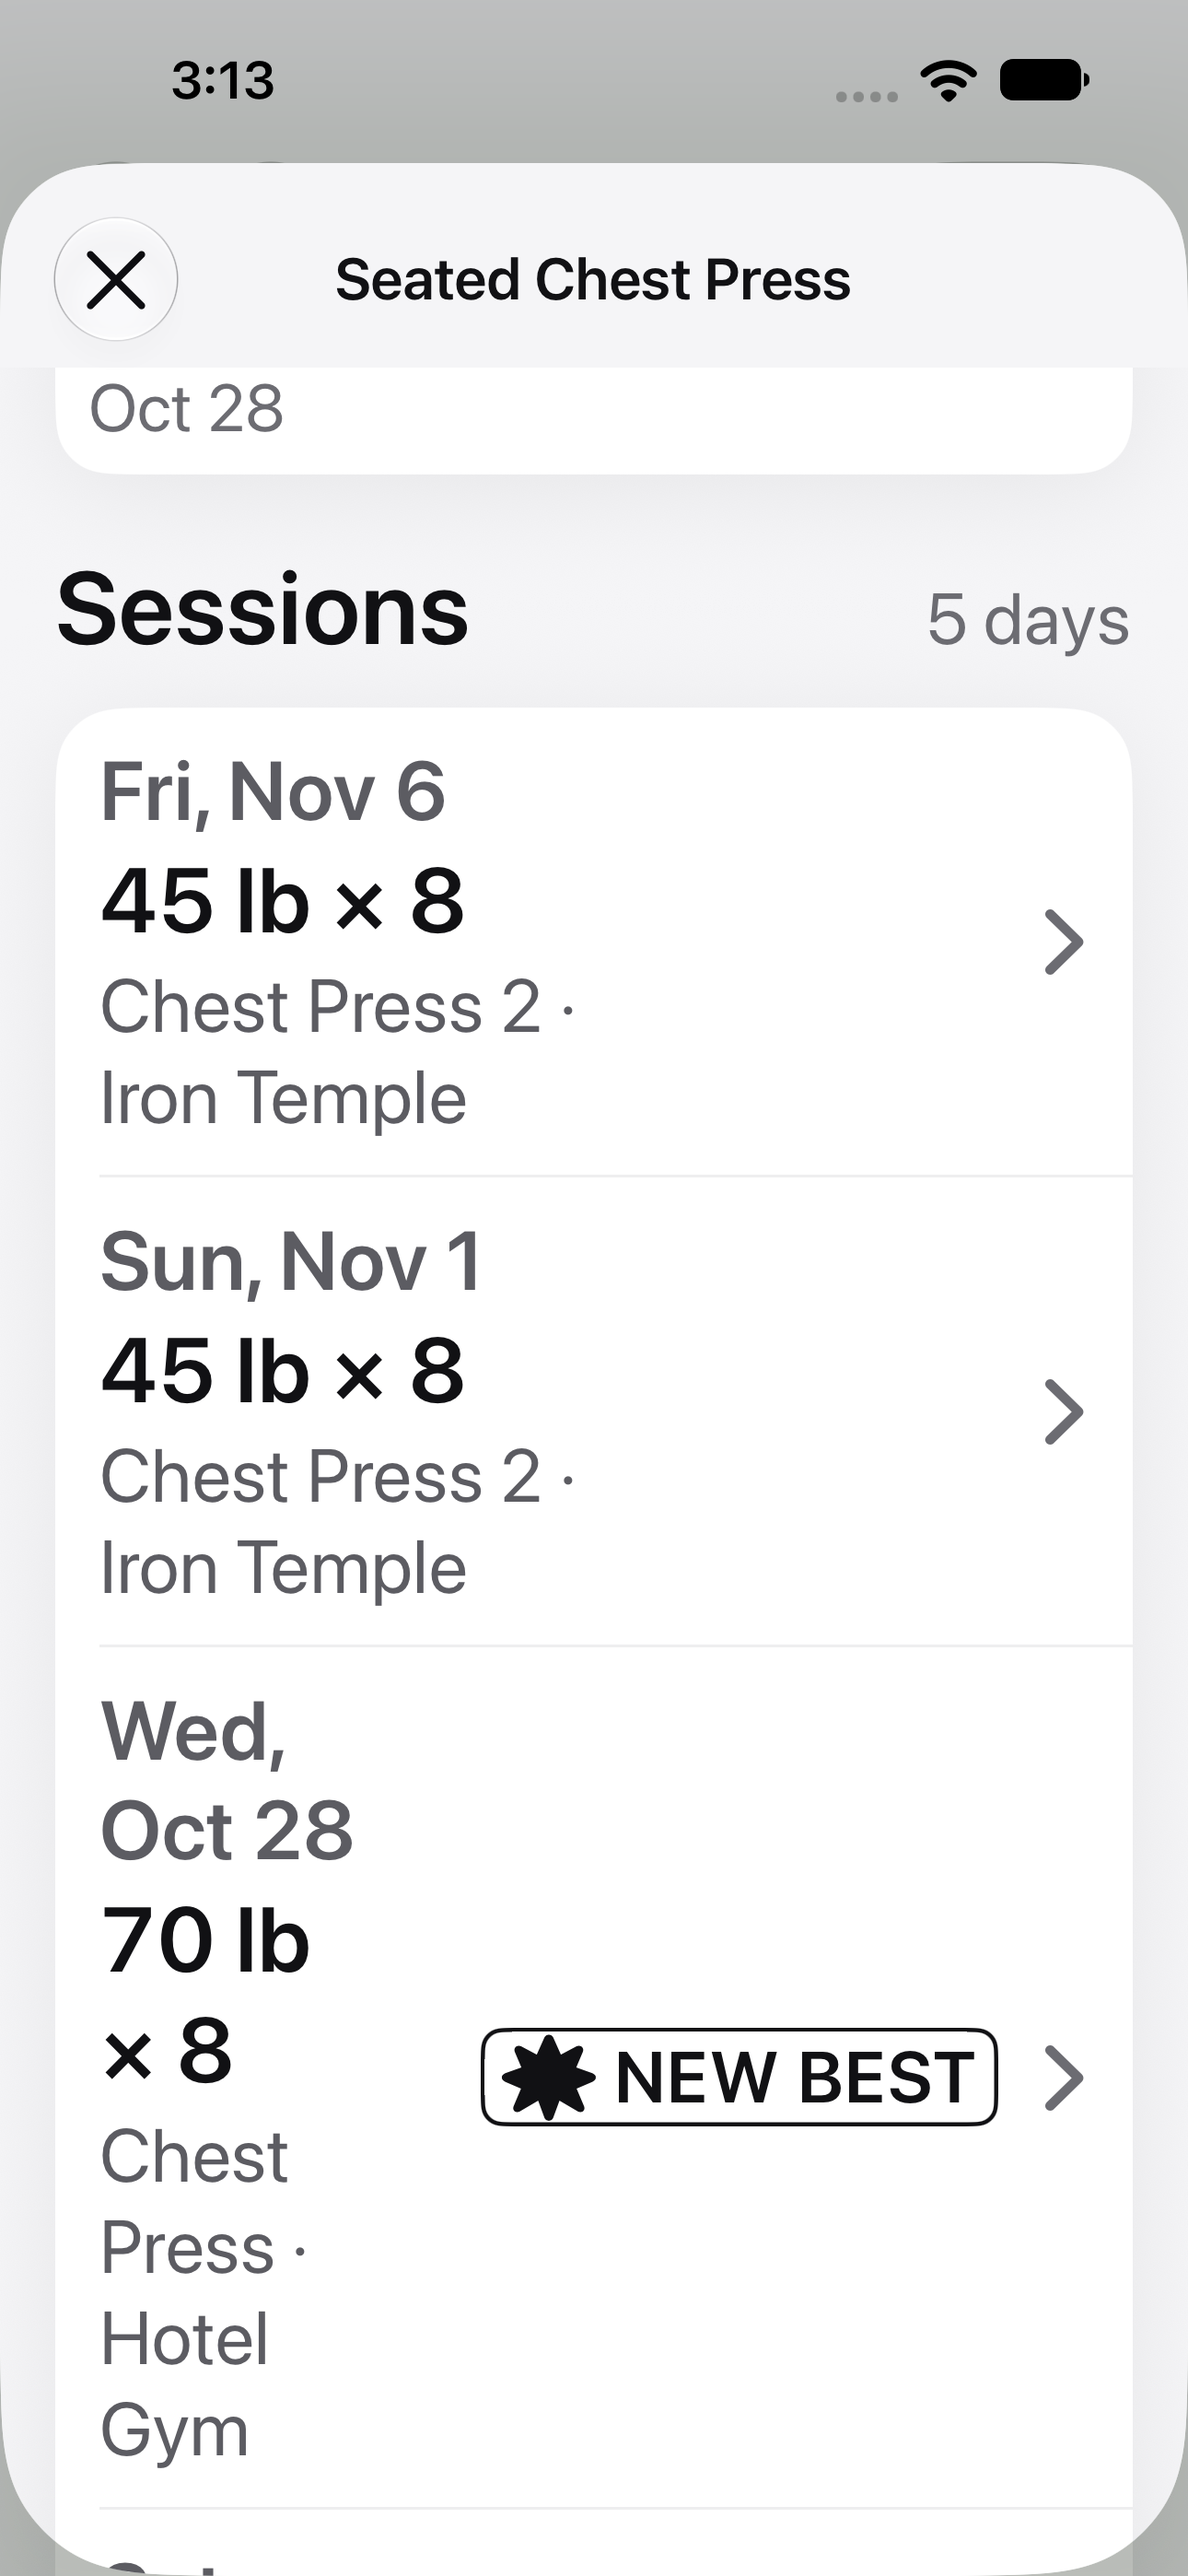
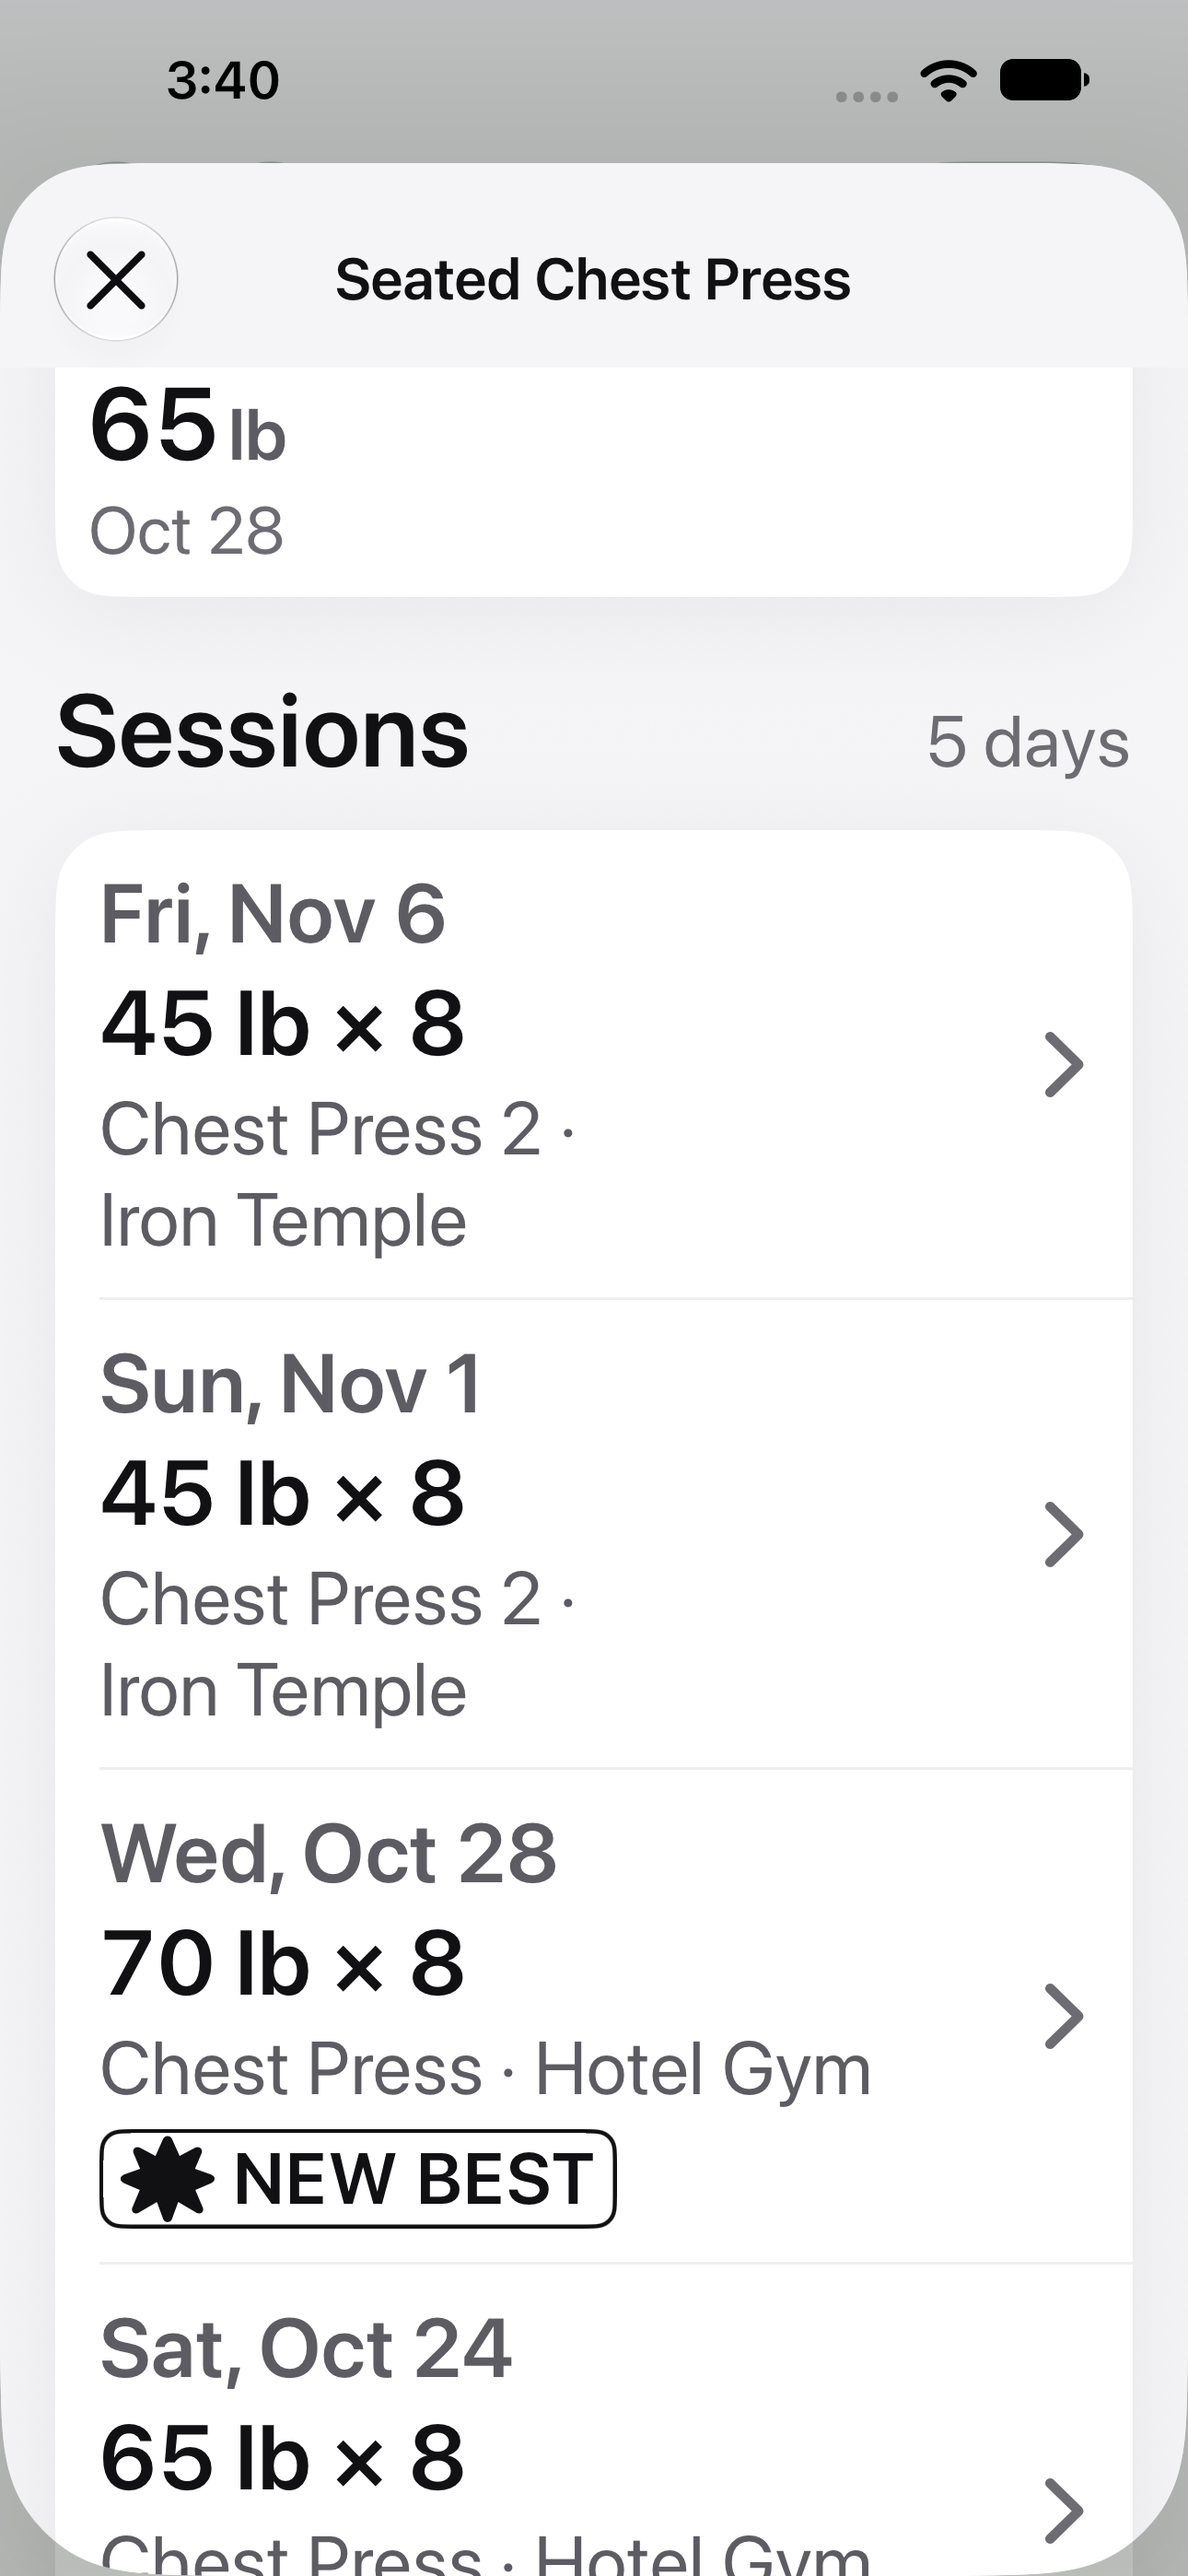
Live-workout 03: area plans evidence, retaken captures, Codex round 2 brief

diff --git a/work-record/live-workout-fixes/issues/03-chart-from-workout.md b/work-record/live-workout-fixes/issues/03-chart-from-workout.md
@@ -163,7 +163,19 @@ Report: [`codex-review-03.md`](../codex-review-03.md) (not clear: three P2). All
    `ExerciseOverview.variationWords(for:entries:current:)`; snapshots still win wherever history exists (D23).
    Regressions: `aDraftOnANewMachineAndPresetIsNamedFromItsLiveRows`, `historyWinsOverLiveRowsForANamedMachine`.
 
-Round-1 fixes: Unit plan 1358/1358 passed, exit 0 (`build/results/unit-03c.xcresult`). Workout + HistoryProgress
-area plans running (2 workers; `build/results/area-workout.xcresult`, `area-history.xcresult`, log
-`build/results/area-03.log`) — they include the live chart test and retake the captures.
+**Evidence after the round-1 fixes (`09d185b9`, 2026-11-13, Claude):** captures retaken by the Workout run (the pooled
+AccessibilityL capture now shows the Hotel Gym rows with the badge under the machine name).
+
+```
+Verified: Unit plan — 1358/1358 passed, exit 0, build/results/unit-03c.xcresult
+Verified: HistoryProgress plan — 46/46 passed, exit 0, build/results/area-history.xcresult (2 workers)
+Verified: Workout plan — 78/79, exit 65, build/results/area-workout.xcresult (2 workers); the one failure below
+Known flaky (likely): FloodlightLiveUITests.testMakingAFreshBestAWarmupTakesTheBandAway — a 3 s wait on the live
+          "New best" band (`liveNewBest`). In the plan it did not go away; alone it passed 7 of 8 on the branch
+          (rerun-band-1…8; run 1 failed earlier, at "the New best band lands", 143 s for one test), and 5 of 5 on
+          main 7dc65b82 (/tmp, removed). The band's logic is untouched by this ticket (the band's tap action now opens
+          the chart; the test never taps it). Two different failure points, both timing waits on a loaded Mac.
+          Follow-up if Codex agrees: dev-speed ticket to give the band waits more slack.
+Not verified: on a phone
+```
 

diff --git a/work-record/live-workout-fixes/codex-review-03b-prompt.md b/work-record/live-workout-fixes/codex-review-03b-prompt.md
@@ -1,0 +1,20 @@
+Round 2 of your review of live-workout-fixes ticket 03, same checkout and branch. Your round-1 report is
+work-record/live-workout-fixes/codex-review-03.md (HEAD then a37ec844). Review `git diff a37ec844..HEAD`.
+
+Claude's response is in work-record/live-workout-fixes/issues/03-chart-from-workout.md under "Codex review 03 —
+response (round 1)", with the evidence after the fixes. In short: (1) `ExerciseOverview.sessionMachineName` reads the
+session's own workout entry; (2) Sessions rows put the New best badge under the text at accessibility sizes (all
+chart Sessions rows); (3) `variationWords(for:entries:current:)` names a draft's own never-logged machine/preset from
+its live rows. Regression unit tests in ChartByMachineTests. Open the retaken captures in
+work-record/live-workout-fixes/captures/03/ (especially live-fixes-03-all-machines-light-axl.png).
+
+Evidence: Unit 1358/1358; HistoryProgress 46/46; Workout 78/79 — one failure,
+FloodlightLiveUITests.testMakingAFreshBestAWarmupTakesTheBandAway, which Claude judges likely flaky (branch alone
+7/8, main alone 5/5; details in the ticket). Judge that independently: read the test, the band's code and the
+failing xcresults (build/results/area-workout.xcresult, build/results/rerun-band-1.xcresult) and say whether this
+ticket could cause it. The fixes change UI (the Sessions row layout), so rerun the UI you need on WT-Redesign-2 as in
+round 1 (Claude's runs are finished; nothing else is running now).
+
+Check the three findings are resolved and look for anything new. Same rules as round 1 (modify nothing but the
+report). Write the report to work-record/live-workout-fixes/codex-review-03b.md in the same format, ending with
+exactly "Verdict: clear" or "Verdict: not clear".

diff --git a/docs/STATE.md b/docs/STATE.md
@@ -13,7 +13,7 @@ archived byte-for-byte: [STATE before TestFlight](archive/STATE-2026-10-13-befor
   **Ticket 1 — built on the branch (2026-11-13):** chart from the live card with "Last time" on top, machine selector
   (each machine "name · gym" + All machines), `PreviousPerformanceSheet` removed; unit + 4 UI tests green; captures in
   `work-record/live-workout-fixes/captures/03/`. **Next:** the user looks at the captures and the new strings (ticket);
-  Codex review round 1 running (Paseo Codex agent `562c6d70-3c94-4da0-9760-a287cdd9a84b`, reuse it; brief
+  Codex round 1 not clear (3 × P2, fixed in `09d185b9`); round 2 running — (Paseo Codex agent `562c6d70-3c94-4da0-9760-a287cdd9a84b`, reuse it; brief
   `work-record/live-workout-fixes/codex-review-03-prompt.md`, report `codex-review-03.md`); the Workout +
   HistoryProgress plans before merge (ask the user if over ~20 min).
 
